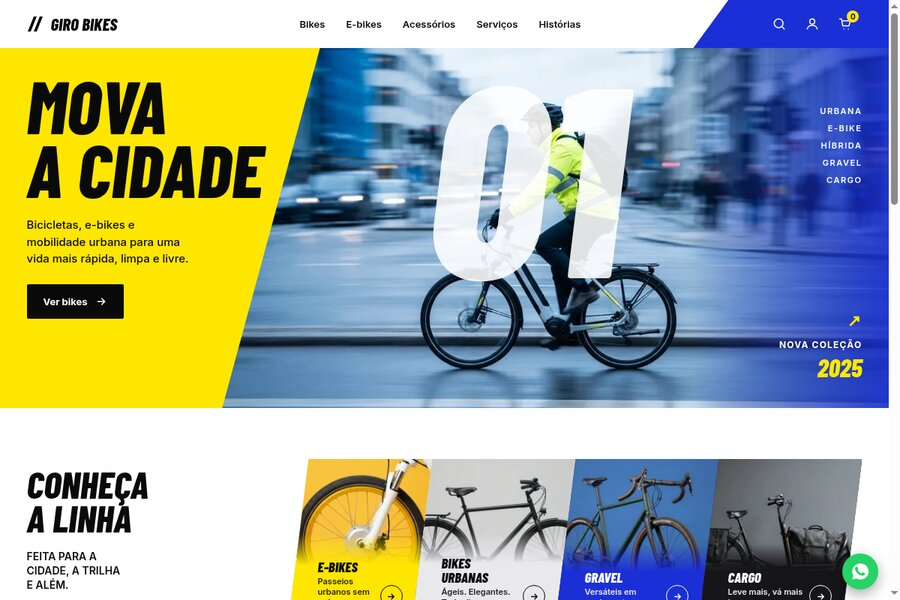
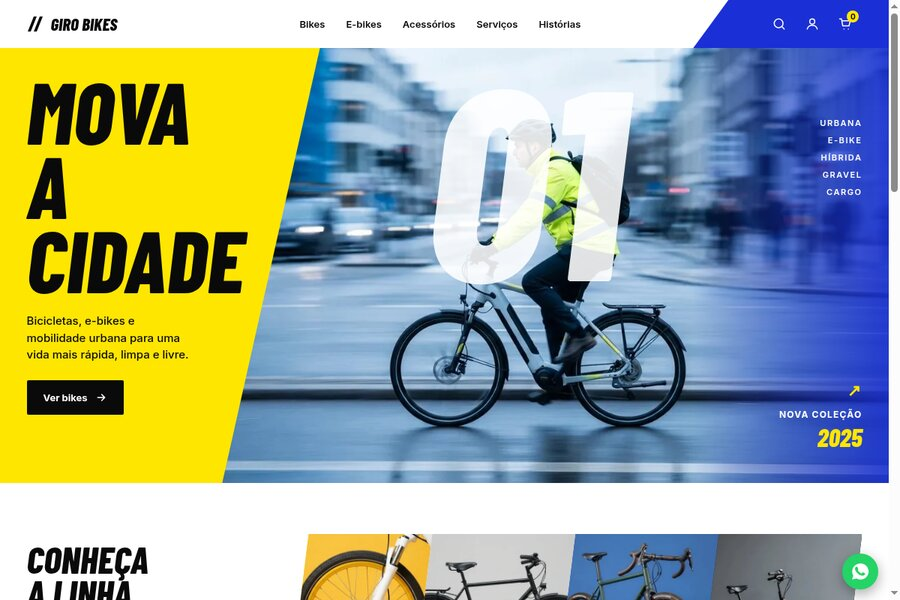
giro-bikes: revisao propria vs pin (hero maior, produto solto, miniaturas, redes)

diff --git a/src/components/models/BikeMove.tsx b/src/components/models/BikeMove.tsx
@@ -74,12 +74,12 @@ export function BikeMove({ client }: { client?: { name?: string; whatsapp?: stri
         .gb .bd{position:absolute;right:4px;top:4px;background:${Y};color:${K};border-radius:50%;width:16px;height:16px;font-size:10px;font-weight:700;display:grid;place-items:center}
         .gb .burger{display:none}
         .gb .mob{display:none}
-        .gb .hero{position:relative;min-height:480px;background:${B};overflow:hidden}
+        .gb .hero{position:relative;min-height:580px;background:${B};overflow:hidden}
         .gb .hero>img{position:absolute;right:0;top:0;width:76%;height:100%;object-fit:cover;object-position:60% 40%}
         .gb .hero:before{content:"";position:absolute;inset:0;z-index:1;background:${Y};clip-path:polygon(0 0,36% 0,25% 100%,0 100%)}
         .gb .hero:after{content:"";position:absolute;z-index:1;right:0;top:0;bottom:0;width:22%;background:linear-gradient(90deg,rgba(27,47,214,0),rgba(27,47,214,.85));}
-        .gb .hc{position:relative;z-index:3;padding:34px 0 40px;width:min(94%,1200px);margin:0 auto;min-height:480px}
-        .gb .hc h1{font-size:clamp(60px,8.2vw,104px);max-width:5.2em;margin:0 0 22px;line-height:.86}
+        .gb .hc{position:relative;z-index:3;padding:34px 0 40px;width:min(94%,1200px);margin:0 auto;min-height:580px}
+        .gb .hc h1{font-size:clamp(64px,9.6vw,136px);max-width:5.2em;margin:0 0 22px;line-height:.86}
         .gb .hc p{font-size:15px;line-height:1.5;max-width:23ch;margin:0 0 22px;font-weight:500}
         .gb .btn{display:inline-flex;align-items:center;gap:10px;min-height:46px;padding:0 22px;border-radius:2px;font-size:13px;font-weight:700;text-decoration:none;cursor:pointer;border:0;background:${K};color:#fff}
         .gb .btn.y{background:${Y};color:${K}}
@@ -90,7 +90,7 @@ export function BikeMove({ client }: { client?: { name?: string; whatsapp?: stri
         .gb .nc b{display:block;font-family:'Barlow Condensed',sans-serif;font-style:italic;font-weight:800;font-size:34px;color:${Y};letter-spacing:0;margin-top:2px}
         .gb .nc i{display:block;color:${Y};margin:0 0 12px auto;width:max-content;font-style:normal;font-size:22px}
         .gb .rg{display:grid;grid-template-columns:320px 1fr;gap:30px;align-items:center;padding:68px 0}
-        .gb h2{text-wrap:balance}.gb .rg h2,.gb .plan h2,.gb .gg h2,.gb .svc h2{font-size:clamp(38px,4.2vw,50px);line-height:.9}.gb .svc h2{font-size:clamp(34px,3.2vw,42px)}
+        .gb h2{text-wrap:balance}.gb .rg h2,.gb .plan h2,.gb .gg h2,.gb .svc h2{font-size:clamp(38px,4.2vw,50px);line-height:.9}.gb .svc h2{font-size:clamp(34px,3.2vw,42px)}.gb .svc h2:before{content:'///';color:${Y};font-style:italic;margin-right:8px}
         .gb .rg p{font-size:14px;font-weight:600;text-transform:uppercase;margin:20px 0 0;line-height:1.35;max-width:14ch}
         .gb .rg .ln{height:1px;background:${K};width:130px;margin-top:20px;position:relative}
         .gb .rc{display:grid;grid-template-columns:repeat(4,1fr);gap:0}
@@ -103,11 +103,11 @@ export function BikeMove({ client }: { client?: { name?: string; whatsapp?: stri
         .gb .rk h3{font-size:19px;line-height:1;font-style:italic}
         .gb .rk small{display:block;font-size:11px;font-weight:600;font-family:'Inter',sans-serif;font-style:normal;text-transform:none;margin-top:3px;opacity:.9}
         .gb .rk i{width:30px;height:30px;border-radius:50%;border:1.5px solid currentColor;display:grid;place-items:center;flex:none}
-        .gb .pr{background:#f6f6f8;position:relative;overflow:hidden}
+        .gb .pr{background:#fafafb;position:relative;overflow:hidden}
         .gb .pr .in{display:grid;grid-template-columns:1.15fr .9fr;gap:0;align-items:stretch}
-        .gb .pl{position:relative;display:grid;grid-template-columns:1fr 250px;align-items:center;padding:30px 20px 30px 0;min-height:420px}
+        .gb .pl{position:relative;display:grid;grid-template-columns:1fr 250px;align-items:center;padding:30px 20px 30px 0;min-height:460px}
         .gb .pl .n2{position:absolute;left:-10px;top:10px;font-family:'Barlow Condensed',sans-serif;font-style:italic;font-weight:800;font-size:clamp(150px,20vw,250px);line-height:.8;color:${B};z-index:0}
-        .gb .pl img{position:relative;z-index:1;width:100%;mix-blend-mode:multiply;margin-top:50px}
+        .gb .pl img{position:relative;z-index:1;width:122%;margin-left:-20%;max-width:none;mix-blend-mode:multiply;filter:brightness(1.07) contrast(1.06);margin-top:50px}
         .gb .pd{position:relative;z-index:2;display:grid;gap:12px}
         .gb .pd h3{font-size:28px;line-height:1.02}
         .gb .pd .new{display:inline-block;background:${Y};font-size:10px;font-weight:800;padding:2px 7px;font-style:italic;vertical-align:top;margin-left:8px;font-family:'Inter',sans-serif;text-transform:uppercase}
@@ -120,7 +120,7 @@ export function BikeMove({ client }: { client?: { name?: string; whatsapp?: stri
         .gb .ct{display:grid;grid-template-columns:96px repeat(3,1fr);font-size:12px;align-items:center}
         .gb .ct>div{padding:10px 4px;border-bottom:1px solid #ececf0;text-align:center}
         .gb .ct>div:nth-child(4n+1){text-align:left;font-weight:500;color:#444}
-        .gb .ct .h{border:0;font-weight:700;font-size:12px;line-height:1.3}
+        .gb .ct .h img{display:block;width:100%;height:36px;object-fit:contain;mix-blend-mode:multiply;margin:0 auto 4px}.gb .ct .h{border:0;font-weight:700;font-size:12px;line-height:1.3}
         .gb .ct .hy{background:${Y};font-weight:800}
         .gb .ct b{font-weight:700}
         .gb .plan{position:relative;display:grid;grid-template-columns:.9fr 1fr;min-height:360px;background:#0f1013;overflow:hidden;color:#fff}
@@ -151,7 +151,7 @@ export function BikeMove({ client }: { client?: { name?: string; whatsapp?: stri
         .gb footer h4{font-size:12px;font-family:'Inter',sans-serif;font-style:normal;font-weight:700;margin-bottom:10px;text-transform:none}
         .gb footer a{display:block;color:#cfcfd4;font-size:12px;text-decoration:none;padding:3px 0;cursor:pointer}
         .gb footer p{font-size:12px;color:#cfcfd4;margin:10px 0 0}
-        .gb .nl2{display:flex;margin-top:8px}.gb .nl2 input{flex:1;min-width:0;height:44px;border:0;padding:0 12px;font-size:12px}.gb .nl2 button{width:48px;border:0;background:${Y};cursor:pointer;display:grid;place-items:center}
+        .gb .soc{display:flex;gap:10px;margin-top:12px}.gb .soc a{width:44px;height:44px;border:1.5px solid #4a4a50;border-radius:50%;display:grid;place-items:center;color:#fff;cursor:pointer}.gb .nl2{display:flex;margin-top:8px}.gb .nl2 input{flex:1;min-width:0;height:44px;border:0;padding:0 12px;font-size:12px}.gb .nl2 button{width:48px;border:0;background:${Y};cursor:pointer;display:grid;place-items:center}
         .gb .dm{grid-column:1/-1;border-top:1px solid #2a2a2e;padding-top:14px;margin-top:6px;font-size:12px;color:#a8a8ae}
         .gb .wa{position:fixed;right:14px;bottom:14px;width:48px;height:48px;border-radius:50%;background:#25d366;display:grid;place-items:center;z-index:30;box-shadow:0 6px 18px rgba(0,0,0,.35)}
         .gb .toast{position:fixed;left:50%;bottom:74px;transform:translateX(-50%);background:${Y};color:${K};padding:12px 20px;font-size:13px;font-weight:700;z-index:40}
@@ -185,7 +185,7 @@ export function BikeMove({ client }: { client?: { name?: string; whatsapp?: stri
         <img src="/gb-hero.webp" alt="Ciclista de jaqueta amarela numa e-bike cinza e branca atravessando a cidade em movimento" />
         <span className="big" aria-hidden>01</span>
         <div className="hc">
-          <h1>Mova<br />a cidade</h1>
+          <h1>Mova<br />a<br />cidade</h1>
           <p>Bicicletas, e-bikes e mobilidade urbana para uma vida mais rápida, limpa e livre.</p>
           <a className="btn" href="#linha" onClick={(e) => { e.preventDefault(); go("linha"); }}>Ver bikes <Arr /></a>
         </div>
@@ -220,7 +220,7 @@ export function BikeMove({ client }: { client?: { name?: string; whatsapp?: stri
         <div className="cm">
           <h3>Compare as bikes</h3>
           <div className="ct" role="table" aria-label="Comparação">
-            <div className="h" /><div className="h hy">E-City Pro<br />{brl(12499)}</div><div className="h">Urban Lite<br />{brl(7499)}</div><div className="h">Gravel X<br />{brl(9499)}</div>
+            <div className="h" /><div className="h hy"><img src="/gb-prod.webp" alt="" />E-City Pro<br />{brl(12499)}</div><div className="h"><img src="/gb-cat2.webp" alt="" />Urban Lite<br />{brl(7499)}</div><div className="h"><img src="/gb-cat3.webp" alt="" />Gravel X<br />{brl(9499)}</div>
             {COMP.map((r) => r.map((c, i) => <div key={`${r[0]}${i}`} style={i === 1 ? { fontWeight: 700 } : undefined}>{c}</div>))}
           </div>
           <a className="btn o" href={wa("Oi! Quero a comparação completa das bikes.")} target="_blank" rel="noreferrer" style={{ justifyContent: "center" }}>Ver comparação completa <Arr s={14} /></a>
@@ -257,7 +257,7 @@ export function BikeMove({ client }: { client?: { name?: string; whatsapp?: stri
         <div><h4>Suporte</h4><a onClick={() => go("servico")}>Central de ajuda</a><a onClick={() => go("servico")}>Garantia</a><a onClick={() => go("servico")}>Agendar revisão</a></div>
         <div><h4>Sobre</h4><a onClick={() => go("rotas")}>Nossa história</a><a onClick={() => go("rotas")}>Sustentabilidade</a><a onClick={() => go("rotas")}>Lojas</a></div>
         <div><h4>Fique por dentro</h4><p style={{ marginTop: 0 }}>Novidades, dicas de pedal e ofertas.</p>
-          <form className="nl2" onSubmit={(e) => { e.preventDefault(); window.open(wa(`Oi! Quero receber novidades da ${brand}. Meu e-mail: ${mail || "não informado"}`), "_blank"); }}><input type="email" aria-label="Seu e-mail" placeholder="Seu e-mail" value={mail} onChange={(e) => setMail(e.target.value)} /><button type="submit" aria-label="Enviar"><Arr /></button></form></div>
+          <form className="nl2" onSubmit={(e) => { e.preventDefault(); window.open(wa(`Oi! Quero receber novidades da ${brand}. Meu e-mail: ${mail || "não informado"}`), "_blank"); }}><input type="email" aria-label="Seu e-mail" placeholder="Seu e-mail" value={mail} onChange={(e) => setMail(e.target.value)} /><button type="submit" aria-label="Enviar"><Arr /></button></form><div className="soc">{[["Instagram",<path d="M7 3h10a4 4 0 0 1 4 4v10a4 4 0 0 1-4 4H7a4 4 0 0 1-4-4V7a4 4 0 0 1 4-4zM12 8a4 4 0 1 0 0 8 4 4 0 0 0 0-8z" />],["YouTube",<path d="M3 8a3 3 0 0 1 3-3h12a3 3 0 0 1 3 3v8a3 3 0 0 1-3 3H6a3 3 0 0 1-3-3zM10 9v6l5-3z" />],["TikTok",<path d="M14 3v11a4 4 0 1 1-4-4M14 3c0 3 2 5 5 5" />]].map(([n,d]) => <a key={n as string} href={wa(`Oi! Vi o ${n} da ${brand}.`)} target="_blank" rel="noreferrer" aria-label={n as string}><Ico s={18} c="#fff">{d}</Ico></a>)}</div></div>
         <p className="dm">Fotos, nomes, números, preços e endereço são ilustrativos. Modelo de demonstração.</p>
       </div></footer>
       <a className="wa" href={order} target="_blank" rel="noreferrer" aria-label="Falar no WhatsApp"><svg width="26" height="26" viewBox="0 0 24 24" fill="#fff" aria-hidden><path d="M12 2a10 10 0 0 0-8.6 15l-1.4 5 5.2-1.4A10 10 0 1 0 12 2zm5.2 13.9c-.2.6-1.300 1.200-1.800 1.200-.5.100-1.100.100-1.800-.100-.4-.100-1-.300-1.700-.600-3-1.300-4.900-4.300-5.100-4.500-.1-.2-1.200-1.600-1.200-3s.8-2.100 1-2.400c.3-.3.600-.3.800-.3h.6c.2 0 .5-.1.700.5l.9 2.200c.1.200.1.400 0 .6l-.4.600c-.1.200-.3.300-.1.600.2.300.8 1.300 1.700 2.100 1.200 1 2.100 1.300 2.400 1.500.3.100.5.100.7-.1l.9-1.100c.2-.3.400-.2.700-.1l2 1c.3.100.5.200.5.300.1.100.1.700-.1 1.300z" /></svg></a>
